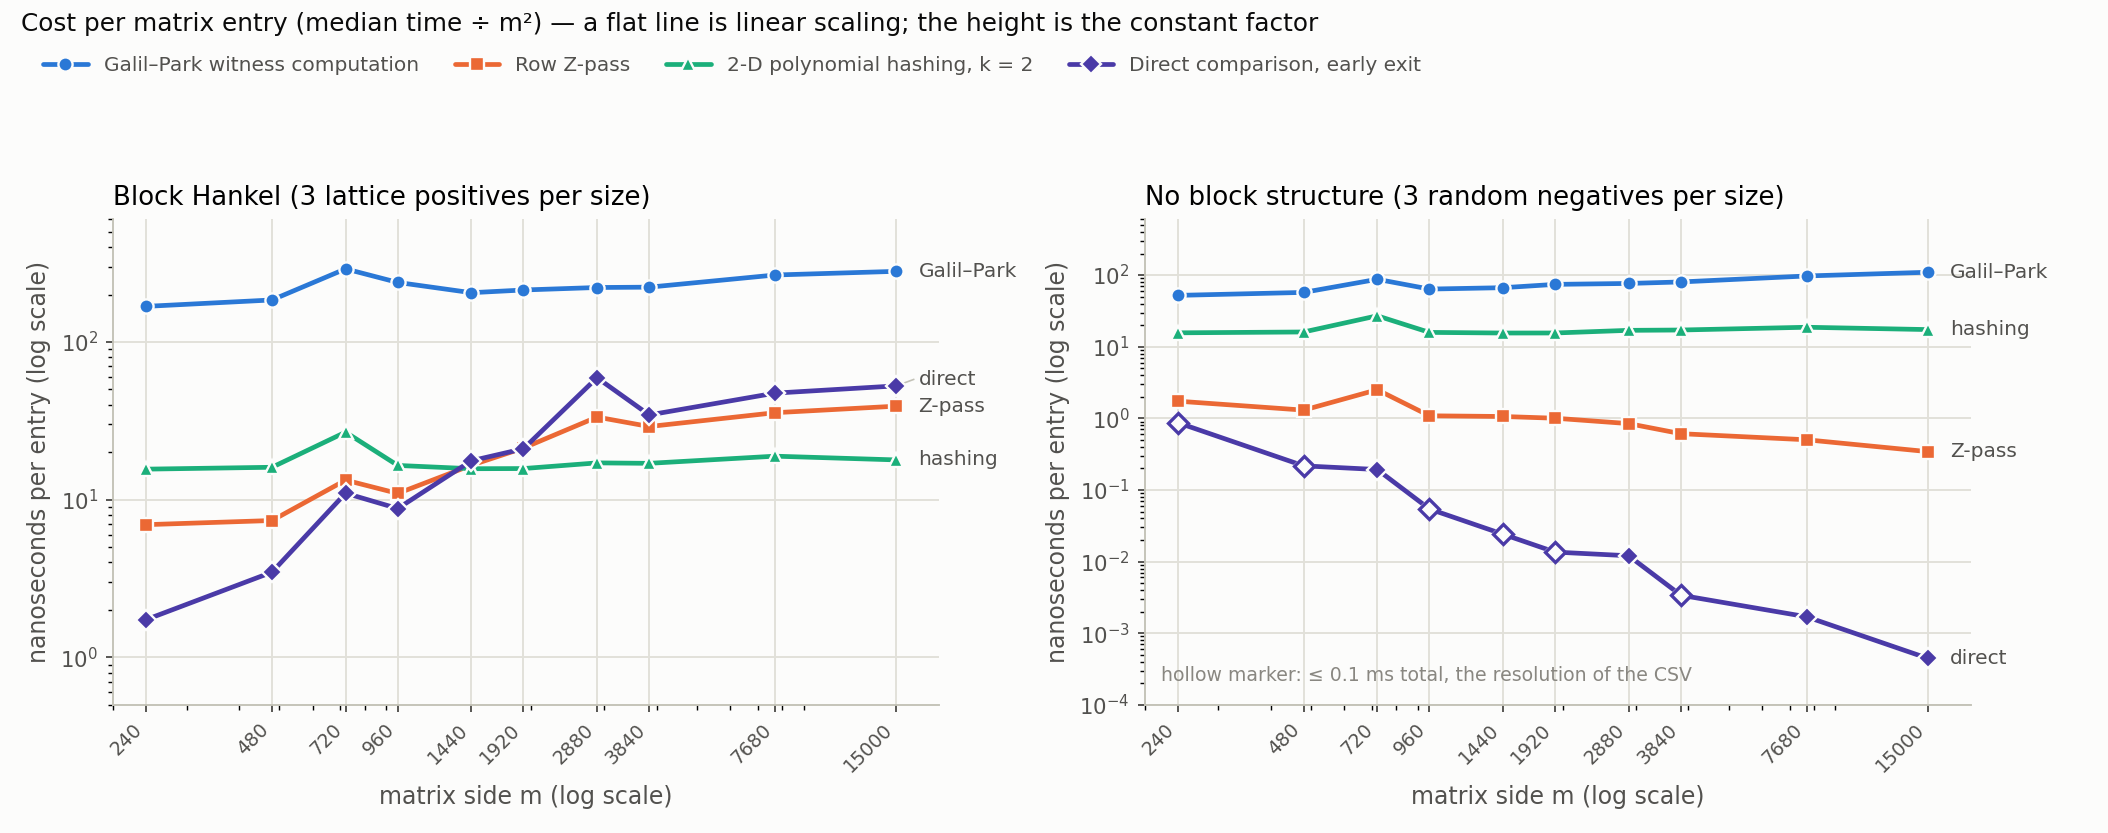
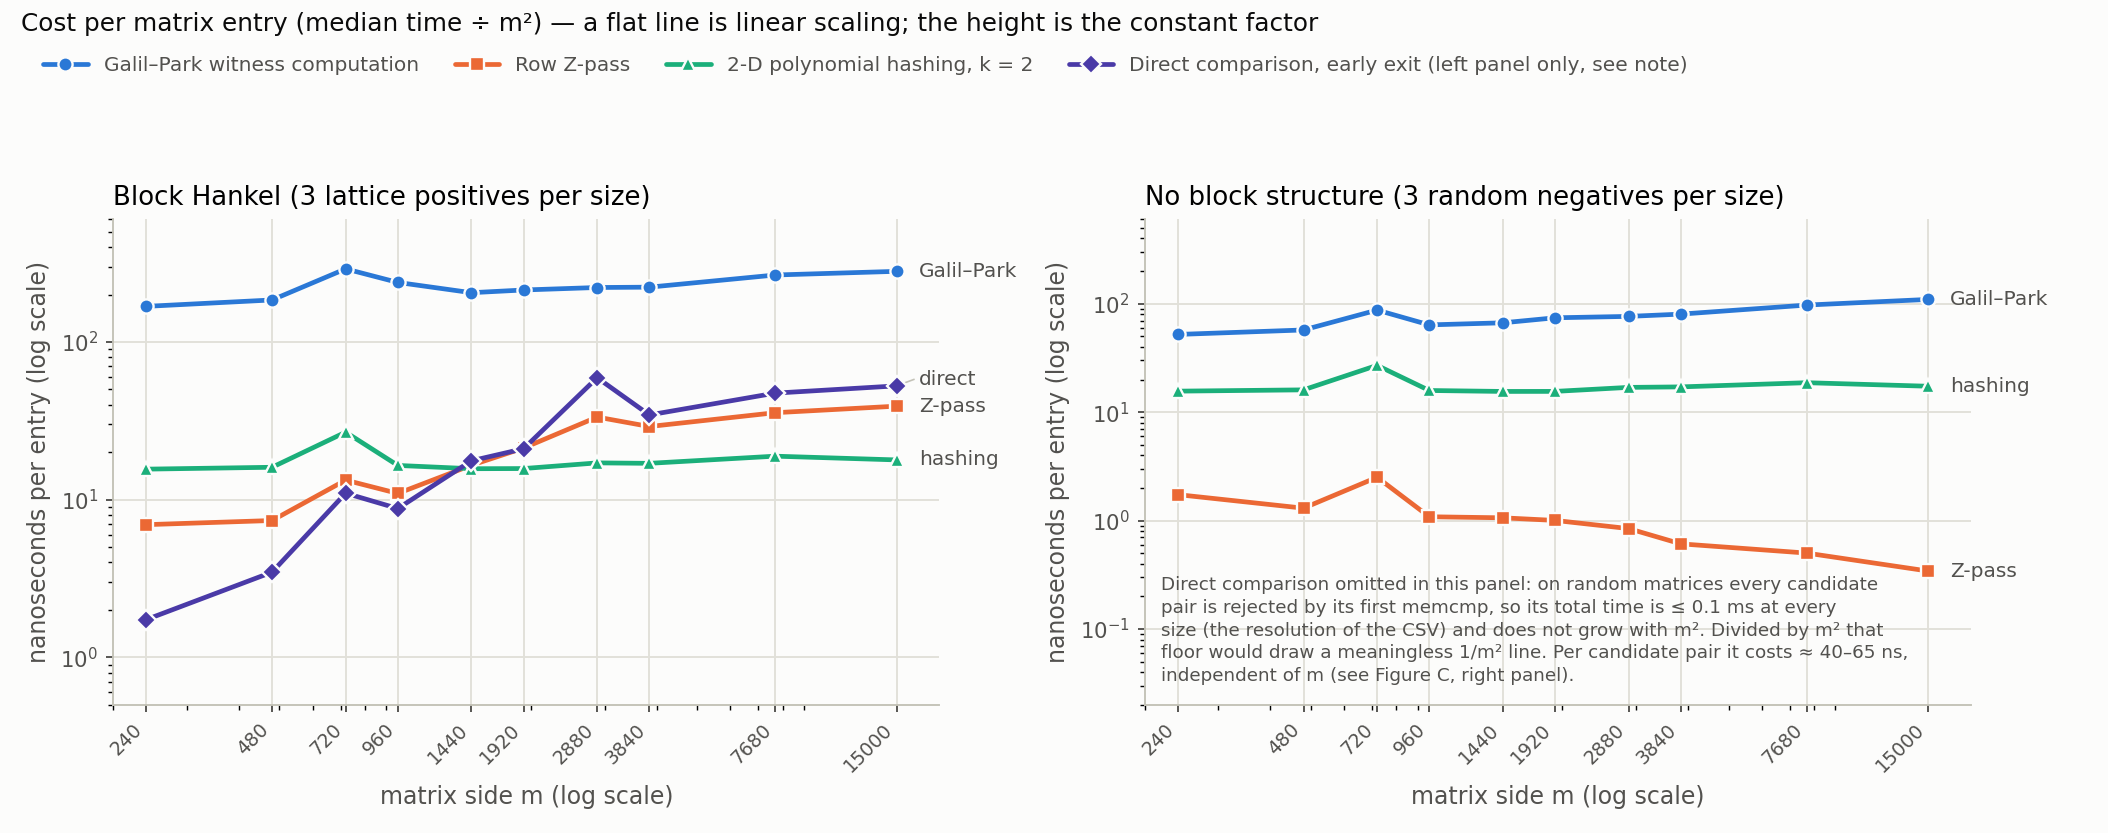
Figure D: drop the direct baseline from the negatives panel
On random matrices every candidate pair is rejected by its first memcmp,
so the direct method's total time is a constant <= 0.1 ms (the CSV's
resolution) that scales with d(m)^2, not m^2. Dividing that floor by m^2
drew a spurious 1/m^2 decay in the per-entry chart. The line is removed
from that panel, the legend marks the series as left-panel only, and a
note in the panel explains why. README and RESULTS.md now report the
direct baseline on negatives as cost per candidate pair (about 40-65 ns,
independent of m) instead of cost per entry.

diff --git a/scripts/plot_results.py b/scripts/plot_results.py
@@ -112,9 +112,11 @@ def end_labels(ax, items, x, min_sep_frac=0.055):
         ax.text(x * 1.13, yl, text, va="center", ha="left", fontsize=8.5, color=INK2, clip_on=False)
 
 
-def figure_legend(fig, ax):
+def figure_legend(fig, ax, relabel=None):
     """One legend for the whole figure, in the band under the title, so no plot area is covered."""
     handles, labels = ax.get_legend_handles_labels()
+    if relabel:
+        labels = [relabel.get(l, l) for l in labels]
     fig.legend(handles, labels, loc="upper left", bbox_to_anchor=(0.012, 0.955), ncol=4, frameon=False,
                fontsize=8.5, labelcolor=INK2, handlelength=2.2, columnspacing=1.8)
 
@@ -161,6 +163,14 @@ def figure_C(df, out, med):
     plt.close(fig)
 
 
+DIRECT_NEG_NOTE = (
+    "Direct comparison omitted in this panel: on random matrices every candidate\n"
+    "pair is rejected by its first memcmp, so its total time is ≤ 0.1 ms at every\n"
+    "size (the resolution of the CSV) and does not grow with m². Divided by m² that\n"
+    "floor would draw a meaningless 1/m² line. Per candidate pair it costs ≈ 40–65 ns,\n"
+    "independent of m (see Figure C, right panel).")
+
+
 def figure_D(df, out, med):
     sizes = sorted(df["size"].unique())
     fig, axes = plt.subplots(1, 2, figsize=(12.4, 4.9), facecolor=SURFACE)
@@ -168,24 +178,20 @@ def figure_D(df, out, med):
         style(ax); ax.set_xscale("log"); ax.set_yscale("log")
         labels = []
         for key, long, short, color, marker in METHODS:
+            if kind == "No" and key == "direct_ms":
+                continue        # Θ(d(m)²) work at the timer floor: a per-entry figure would be an artifact
             ys = np.array([med.loc[(kind, m), key] * 1e6 / (m * m) for m in sizes])   # ns per entry
-            floor = ys <= 0
-            fl = np.array([FLOOR_MS * 1e6 / (m * m) for m in sizes])
-            yy = np.where(floor, fl, ys)
-            ax.plot(sizes, yy, color=color, linewidth=2, marker=marker, markersize=6, markeredgecolor=SURFACE,
+            ax.plot(sizes, ys, color=color, linewidth=2, marker=marker, markersize=6, markeredgecolor=SURFACE,
                     markeredgewidth=1, solid_capstyle="round", label=long, zorder=4)
-            if floor.any():
-                ax.plot(np.array(sizes)[floor], fl[floor], linestyle="none", marker=marker, markersize=6,
-                        markerfacecolor=SURFACE, markeredgecolor=color, markeredgewidth=1.4, zorder=5)
-            labels.append((yy[-1], short))
+            labels.append((ys[-1], short))
         ax.set_xlabel("matrix side m (log scale)"); ax.set_ylabel("nanoseconds per entry (log scale)")
         ax.set_title(title, fontsize=11, loc="left")
         ax.set_xticks(sizes); ax.set_xticklabels([str(s) for s in sizes], rotation=45, ha="right", fontsize=8)
-        ax.set_xlim(200, 19000); ax.set_ylim(1e-4 if kind == "No" else 0.5, 600)
+        ax.set_xlim(200, 19000); ax.set_ylim(0.02 if kind == "No" else 0.5, 600)
         end_labels(ax, labels, x=sizes[-1])
-    axes[1].text(0.02, 0.05, "hollow marker: ≤ 0.1 ms total, the resolution of the CSV",
-                 transform=axes[1].transAxes, fontsize=8, color=MUTED)
-    figure_legend(fig, axes[0])
+    axes[1].text(0.02, 0.04, DIRECT_NEG_NOTE, transform=axes[1].transAxes, fontsize=7.8, color=INK2,
+                 va="bottom", ha="left", linespacing=1.35)
+    figure_legend(fig, axes[0], relabel={"Direct comparison, early exit": "Direct comparison, early exit (left panel only, see note)"})
     fig.suptitle("Cost per matrix entry (median time ÷ m²) — a flat line is linear scaling; the height is the constant factor",
                  fontsize=10.5, color=INK, x=0.01, ha="left", y=0.985)
     fig.tight_layout(rect=(0, 0, 0.985, 0.87)); fig.savefig(out / "fig_D_ns_per_entry.png", dpi=170, facecolor=SURFACE)

diff --git a/results/RESULTS.md b/results/RESULTS.md
@@ -101,18 +101,23 @@ Block-Hankel positives:
 
 Random negatives:
 
-| m | Galil–Park ms | Z-pass ms | hashing ms | direct ms | GP ns/entry | Z ns/entry | hash ns/entry | direct ns/entry |
+| m | Galil–Park ms | Z-pass ms | hashing ms | direct ms | GP ns/entry | Z ns/entry | hash ns/entry | direct ns/pair |
 |---:|---:|---:|---:|---:|---:|---:|---:|---:|
-| 240 | 3.0 | 0.1 | 0.9 | 0.0 | 52 | 1.74 | 15.6 | < 0.9 |
-| 480 | 13.2 | 0.3 | 3.7 | 0.0 | 57 | 1.30 | 16.1 | < 0.2 |
-| 720 | 45.3 | 1.3 | 14.0 | 0.1 | 87 | 2.51 | 27.0 | 0.19 |
-| 960 | 58.8 | 1.0 | 14.6 | 0.0 | 64 | 1.09 | 15.8 | < 0.05 |
-| 1440 | 138.3 | 2.2 | 32.2 | 0.0 | 67 | 1.06 | 15.5 | < 0.02 |
-| 1920 | 273.5 | 3.7 | 57.3 | 0.0 | 74 | 1.00 | 15.5 | < 0.01 |
-| 2880 | 634.0 | 7.0 | 140.4 | 0.1 | 76 | 0.84 | 16.9 | 0.01 |
-| 3840 | 1182.8 | 9.0 | 252.2 | 0.0 | 80 | 0.61 | 17.1 | < 0.01 |
-| 7680 | 5731.2 | 29.6 | 1102.7 | 0.1 | 97 | 0.50 | 18.7 | 0.002 |
-| 15000 | 24655.3 | 77.1 | 3902.0 | 0.1 | 110 | 0.34 | 17.3 | < 0.001 |
+| 240 | 3.0 | 0.1 | 0.9 | 0.0 | 52 | 1.74 | 15.6 | < 139 |
+| 480 | 13.2 | 0.3 | 3.7 | 0.0 | 57 | 1.30 | 16.1 | < 95 |
+| 720 | 45.3 | 1.3 | 14.0 | 0.1 | 87 | 2.51 | 27.0 | 119 |
+| 960 | 58.8 | 1.0 | 14.6 | 0.0 | 64 | 1.09 | 15.8 | < 69 |
+| 1440 | 138.3 | 2.2 | 32.2 | 0.0 | 67 | 1.06 | 15.5 | < 41 |
+| 1920 | 273.5 | 3.7 | 57.3 | 0.0 | 74 | 1.00 | 15.5 | < 52 |
+| 2880 | 634.0 | 7.0 | 140.4 | 0.1 | 76 | 0.84 | 16.9 | 60 |
+| 3840 | 1182.8 | 9.0 | 252.2 | 0.0 | 80 | 0.61 | 17.1 | < 41 |
+| 7680 | 5731.2 | 29.6 | 1102.7 | 0.1 | 97 | 0.50 | 18.7 | 66 |
+| 15000 | 24655.3 | 77.1 | 3902.0 | 0.1 | 110 | 0.34 | 17.3 | 66 |
+
+For the direct baseline the last column is the cost per *candidate pair*, not per entry: on random
+input every pair is rejected by its first `memcmp`, so the total time is `Θ(d(m)²)` and sits at the
+0.1 ms resolution of the CSV (`<` marks a recorded 0.0, i.e. below 0.05 ms). Dividing such a floor by
+`m²` would produce a spurious `1/m²` decay, which is why the negatives panel of Figure D omits it.
 
 Observations:
 
@@ -123,8 +128,10 @@ Observations:
   matching stretch runs `memcmp` over the whole row of length `m − q`, and the number of such comparisons
   per divisor is `Θ(m)`; on negatives each `memcmp` stops within the first few bytes and the whole pass
   costs `Θ(m)` per divisor, hence the *falling* per-entry cost.
-- Direct comparison on negatives is below the 0.1 ms resolution of the CSV at most sizes: each of the up
-  to 1520 candidate pairs is rejected by the first `memcmp`.
+- Direct comparison on negatives costs about 40–65 ns per candidate pair, independent of `m`: each of
+  the up to 1680 pairs is rejected by its first `memcmp`, so the total (≤ 0.1 ms) tracks `d(m)²`, not
+  `m²`. The 0.1 ms readings fall exactly on the sizes with the most pairs (720, 2880, 7680, 15000) and
+  3840, with fewer pairs than 2880, drops back to 0.0.
 - `m = 720` is anomalous for all four methods (per-entry cost 1.6–1.8 × the neighbouring sizes, including
   the direct baseline). A slowdown that hits every method by the same factor points to the shared VM,
   not to the algorithms.
@@ -217,7 +224,7 @@ the same CSV.
 | [`figures/fig_A_galil_park_linear.png`](figures/fig_A_galil_park_linear.png) | Galil–Park, linear axes, positives and negatives |
 | [`figures/fig_B_fast_methods_linear.png`](figures/fig_B_fast_methods_linear.png) | Z-pass, hashing, direct comparison, linear axes |
 | [`figures/fig_C_runtime_loglog.png`](figures/fig_C_runtime_loglog.png) | all four methods, log–log axes, with a slope-1 guide |
-| [`figures/fig_D_ns_per_entry.png`](figures/fig_D_ns_per_entry.png) | nanoseconds per entry against `m` |
+| [`figures/fig_D_ns_per_entry.png`](figures/fig_D_ns_per_entry.png) | nanoseconds per entry against `m`; the direct baseline is omitted from the negatives panel (see §3) |
 | [`figures/fig_E_ratio_to_hashing.png`](figures/fig_E_ratio_to_hashing.png) | positives, time relative to hashing |
 
 ![A](figures/fig_A_galil_park_linear.png)

diff --git a/README.md b/README.md
@@ -188,7 +188,11 @@ linear on block-Hankel matrices.
 height is the constant. Hashing costs 16–19 ns per entry regardless of input or size. Z-pass on
 positives climbs from 7 to 39 ns per entry as rows get longer; on negatives it drops to 0.3 ns per
 entry. Galil–Park drifts upward from about 50 to 110 ns per entry on negatives and 170 to 280 ns per
-entry on positives.
+entry on positives. The direct baseline is deliberately left out of the negatives panel: on random
+matrices every candidate pair is rejected by its first `memcmp`, so its total time is a constant
+≤ 0.1 ms at every size, at the resolution of the CSV, and dividing that floor by m² would draw a
+spurious 1/m² decay. Its cost there is about 40–65 ns per candidate pair, independent of m; the flat
+total is visible in Figure C.
 
 ![Figure D: cost per entry](results/figures/fig_D_ns_per_entry.png)
 
